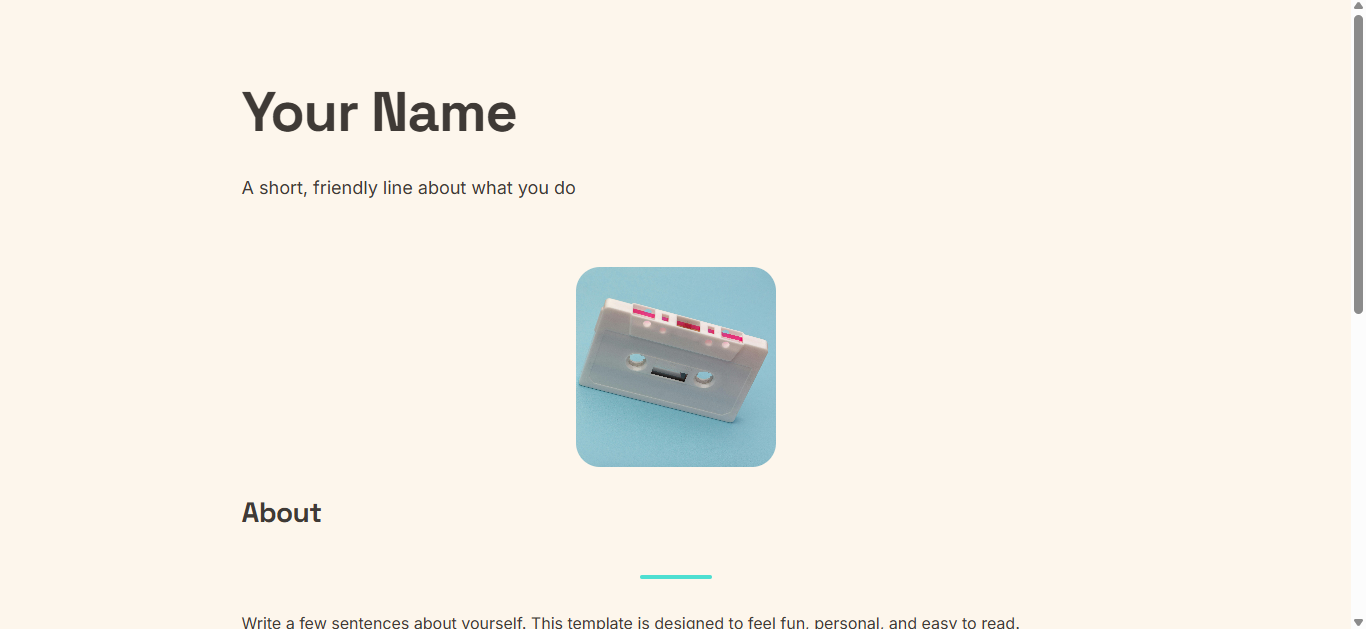
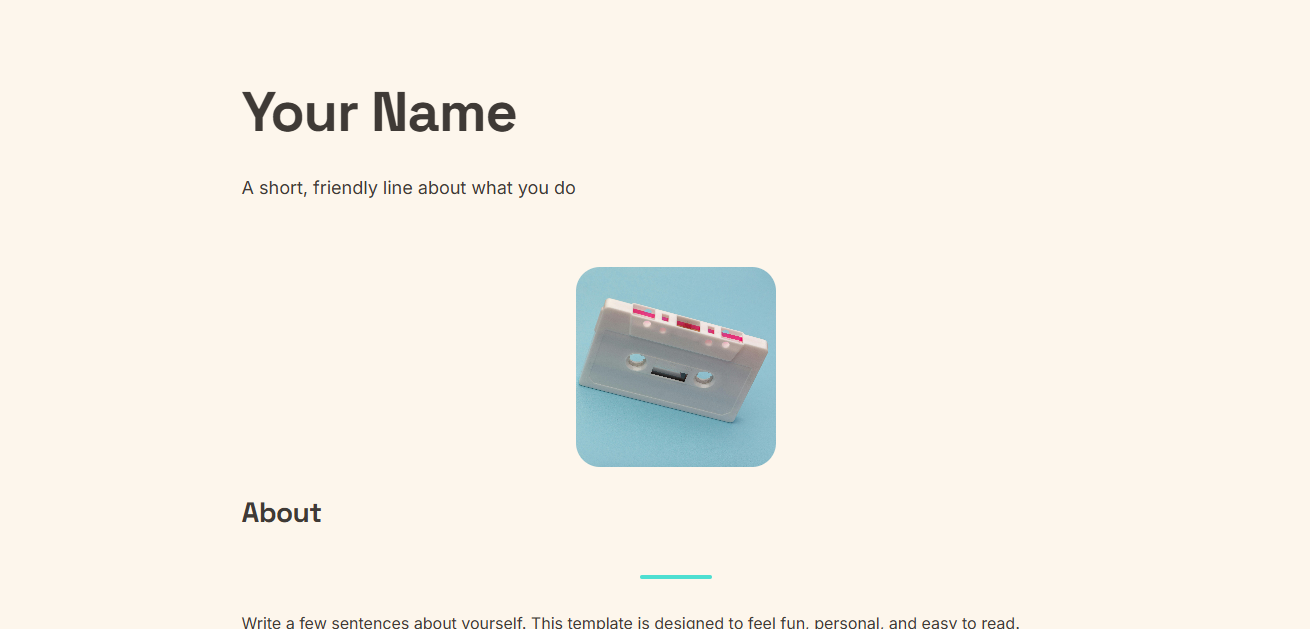
Updated Screen Shots and Home Page
I updated some of the website demos screen shots to get rid of the scroll bar. I also added a button on the home page to view my full portfolio, and added CSS for the button.

diff --git a/index.html b/index.html
@@ -79,6 +79,10 @@
         </div>
     </section>
 
+    <div class="portfolio-button">
+    <a target="_blank" rel="noopener" href="portfolio.html" class="button">See Full Portfolio</a>
+    </div>
+
     <!-- Skills Section -->
     <section class="section">
     <h2>Skills</h2>

diff --git a/styles.css b/styles.css
@@ -145,6 +145,11 @@ h2 {
     box-shadow: 0 4px 10px rgba(0, 0, 0, 0.1);
 }
 
+.portfolio-button  {
+    display: flex;
+    justify-content: center;
+}
+
 .button:focus-visible {
     outline: 3px solid rgba(78, 223, 209, 0.6);
     outline-offset: 2px;
